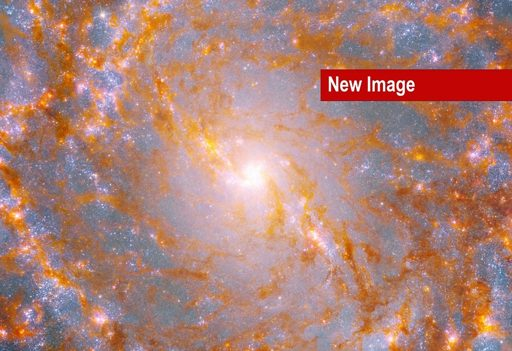
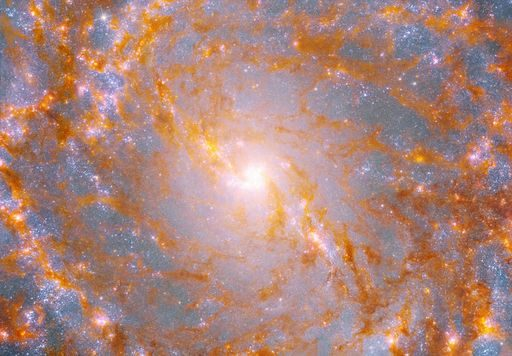
fix: 메시에 사진 7장의 NASA "New Image" 띠 제거, 수집기가 띠 변형을 피하도록
NASA Hubble 메시에 페이지의 og:image가 `_NewImage` 변형을 가리키는 M4, M5, M10, M32,
M58, M64, M101은 사진에 빨간 "New Image" 띠가 박혀 있었다. 같은 페이지의 띠 없는
원본(`..._FINAL.jpg` 등)으로 바꿔 다시 만들었고 credits.json의 image URL을 갱신했다.
messier_images.build()는 이제 띠 변형이면 페이지 안의 띠 없는 허블 이미지를 먼저 고른다.

diff --git a/vasthorizon/data/messier_images.py b/vasthorizon/data/messier_images.py
@@ -24,6 +24,28 @@ PAGE = "https://science.nasa.gov/mission/hubble/science/explore-the-night-sky/hu
 OG_IMAGE = re.compile(r'<meta property="og:image" content="([^"]+)"')
 CREDIT = re.compile(r'<div class="hds-credits">(.*?)</div>', re.S)
 WIDTH = 512
+HUBBLE_ASSET = re.compile(r"https://assets\.science\.nasa\.gov/content/dam/science/missions/hubble/[^\s\"'<>()?]+?\.(?:jpe?g|png)", re.I)
+NEW_IMAGE = re.compile(r"new[_\- ]?image", re.I)    # 사진에 빨간 "New Image" 띠가 박힌 변형 (..._NewImage.jpg)
+
+
+def has_banner(url: str) -> bool:
+    return bool(NEW_IMAGE.search(url.rsplit("/", 1)[-1]))
+
+
+def pick_image(text: str, og: str) -> str:
+    """og:image가 'New Image' 띠 변형이면 같은 페이지의 띠 없는 허블 이미지(파일명 앞부분이 같은 것 우선)로 바꾼다. 못 찾으면 og 그대로."""
+    if not has_banner(og):
+        return og
+    seen, clean = set(), []
+    for url in HUBBLE_ASSET.findall(html.unescape(text)):
+        if url not in seen and not has_banner(url):
+            seen.add(url)
+            clean.append(url)
+    if not clean:
+        return og
+    stem = NEW_IMAGE.split(og.rsplit("/", 1)[-1])[0].lower()
+    same = [u for u in clean if stem and u.rsplit("/", 1)[-1].lower().startswith(stem)]
+    return (same or clean)[0]
 
 
 def to_jpeg(data: bytes, size: int = WIDTH) -> bytes:
@@ -45,7 +67,7 @@ def parse_page(text: str) -> dict | None:
     clean = html.unescape(re.sub(r"<[^>]+>", "", credit.group(1))).strip()
     if not clean:
         return None
-    return {"image": og.group(1).split("?")[0], "credit": re.sub(r"\s+", " ", clean)}
+    return {"image": pick_image(text, og.group(1).split("?")[0]), "credit": re.sub(r"\s+", " ", clean)}
 
 
 def build(out_dir: Path, get: Callable[[str], object], numbers=range(1, 111), log=print) -> dict:
@@ -64,6 +86,8 @@ def build(out_dir: Path, get: Callable[[str], object], numbers=range(1, 111), lo
             if not found:
                 log(f"  {key}: 사진 또는 출처 표기 없음 — 건너뜀")
                 continue
+            if has_banner(found["image"]):
+                log(f"  {key}: 띠 없는 대안 사진을 찾지 못함 — og:image 그대로 씀 ({found['image']})")
             img = get(f"{found['image']}?w={WIDTH}")
             if img.status_code != 200 or not img.headers.get("content-type", "").startswith("image/"):
                 log(f"  {key}: 사진을 받지 못함 ({img.status_code} {img.headers.get('content-type')}) — 건너뜀")

diff --git a/tests/test_messier_images.py b/tests/test_messier_images.py
@@ -14,7 +14,7 @@ from pathlib import Path
 from PIL import Image
 
 from vasthorizon.config import PROJECT_ROOT
-from vasthorizon.data.messier_images import build, parse_page, to_jpeg
+from vasthorizon.data.messier_images import build, parse_page, pick_image, to_jpeg
 
 PAGE_HTML = """<html><head><meta property="og:image" content="https://science.nasa.gov/wp-content/uploads/m1.webp?x=1" />
 </head><body><figure><img src="m1.webp"></figure><figcaption><div class="hds-credits">NASA, ESA, J. Hester &amp; A. Loll</div>
@@ -51,6 +51,39 @@ class ParseTest(unittest.TestCase):
     def test_to_jpeg_shrinks_long_side(self):
         img = Image.open(io.BytesIO(to_jpeg(png_bytes())))
         self.assertEqual((img.format, max(img.size)), ("JPEG", 512))
+
+
+BASE = "https://assets.science.nasa.gov/content/dam/science/missions/hubble/galaxies/m4/"
+
+
+class BannerTest(unittest.TestCase):
+    def test_new_image_replaced_by_same_stem_final(self):
+        og = BASE + "potw1_NewImage.jpg"
+        text = f'<img src="{BASE}other_FINAL.jpg"><img src="{BASE}potw1_NewImage.jpg"><img src="{BASE}potw1_FINAL.jpg?w=300">'
+        self.assertEqual(pick_image(text, og), BASE + "potw1_FINAL.jpg")
+
+    def test_falls_back_to_any_clean_hubble_image(self):
+        og = BASE + "potw1_new-image.png"
+        text = f'<img src="{BASE}x_FINAL_2026.jpg"><img src="https://example.com/y.jpg">'
+        self.assertEqual(pick_image(text, og), BASE + "x_FINAL_2026.jpg")
+
+    def test_no_alternative_keeps_og(self):
+        og = BASE + "potw1_New_Image.jpg"
+        self.assertEqual(pick_image(f'<img src="{og}">', og), og)
+
+    def test_clean_og_untouched(self):
+        og = BASE + "a.jpg"
+        self.assertEqual(pick_image(f'<img src="{BASE}b_FINAL.jpg">', og), og)
+
+    def test_parse_page_uses_alternative_and_build_warns_without(self):
+        og = BASE + "p_NewImage.jpg"
+        tpl = '<meta property="og:image" content="%s?x=1"><div class="hds-credits">NASA</div>%s'
+        self.assertEqual(parse_page(tpl % (og, f'<a href="{BASE}p_FINAL.jpg">'))["image"], BASE + "p_FINAL.jpg")
+        logs = []
+        get = lambda url: Resp(text=tpl % (og, "")) if "messier-" in url else Resp(content=png_bytes(), ctype="image/png")
+        with tempfile.TemporaryDirectory() as tmp:
+            build(Path(tmp), get, numbers=[4], log=logs.append)
+        self.assertTrue(any("띠 없는 대안" in m for m in logs))
 
 
 class BuildTest(unittest.TestCase):
